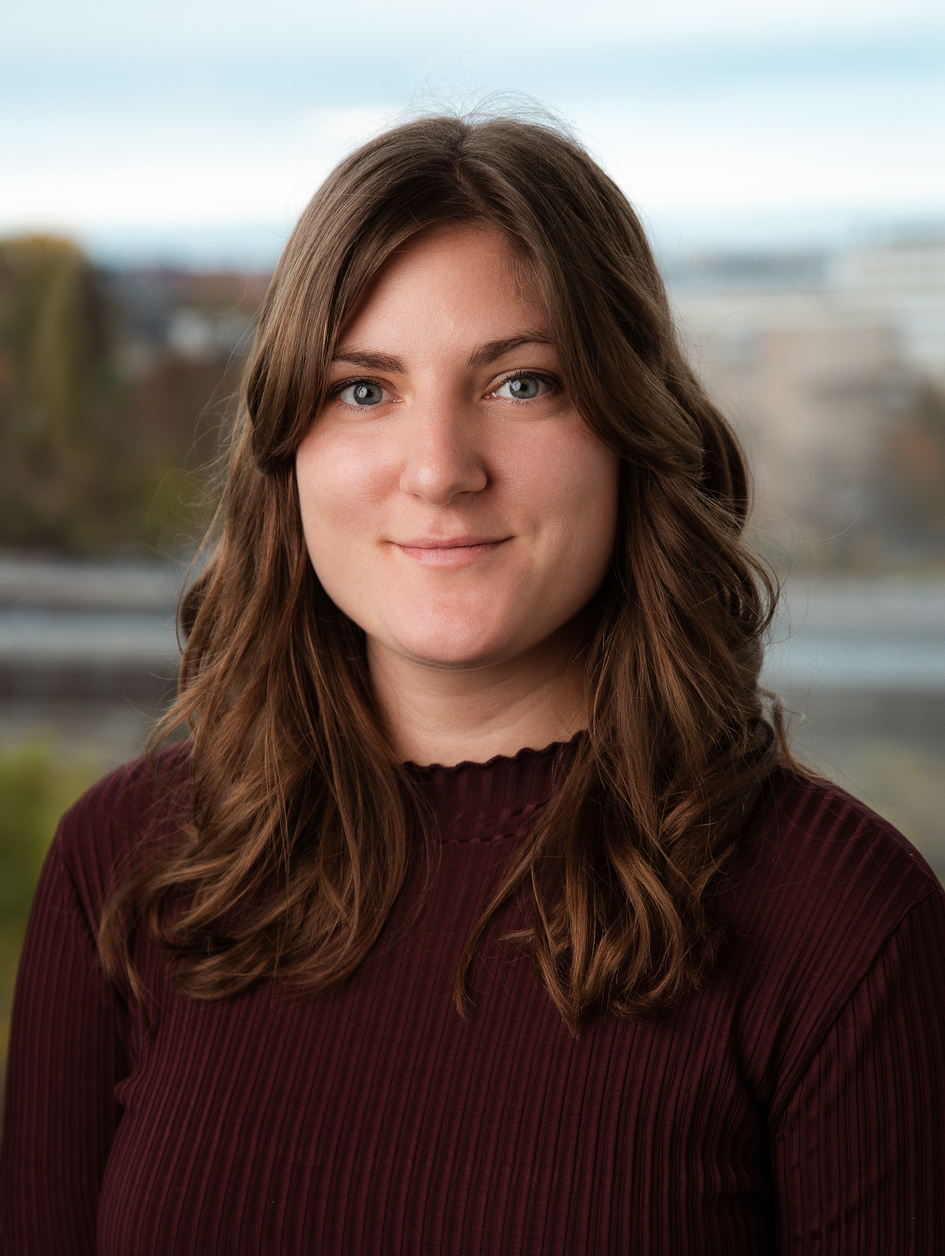
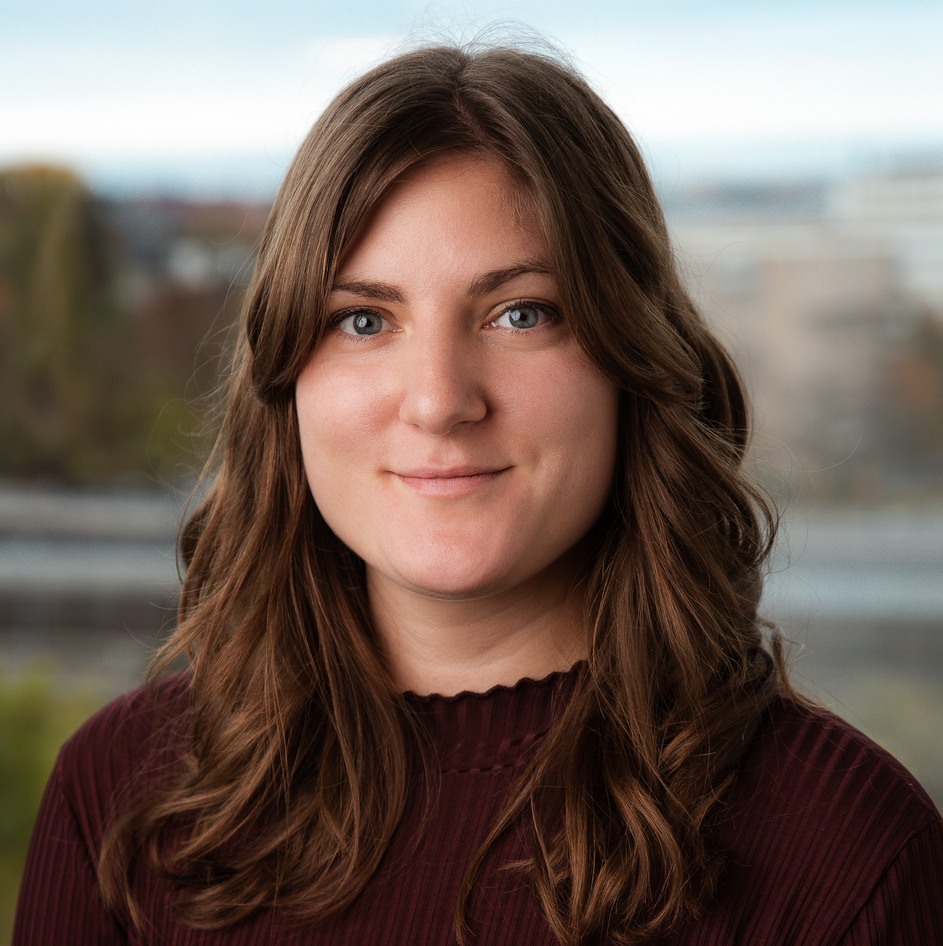
updated links and image format

diff --git a/frontend/src/components/pages/About.js b/frontend/src/components/pages/About.js
@@ -4,8 +4,11 @@ import {
   PageHeading,
   PageSubHeading,
 } from 'components/styles/GlobalStyles';
+import { SlSocialLinkedin } from 'react-icons/sl';
+import { VscGithub } from 'react-icons/vsc';
+import { BsGithub } from 'react-icons/bs';
 
-import styled from 'styled-components';
+import styled from 'styled-components/macro';
 
 import Saralie from '../../utils/img/saralie.jpg';
 
@@ -16,6 +19,7 @@ const presentation = [
     descrition:
       'Lorem ipsum dolor sit amet, consectetur adipiscing elit. Nullam consequat elit vel pharetra mattis. Integer eu risus lacus. Curabitur sit amet nulla eget orci fringilla scelerisque. Suspendisse potenti. Quisque ac efficitur dui. Nam convallis eros in malesuada maximus.',
     linkedIn: 'https://www.linkedin.com/',
+    github: 'https://www.linkedin.com/',
     portfolio: 'https://www.linkedin.com/',
   },
   {
@@ -24,6 +28,7 @@ const presentation = [
     descrition:
       'I am a Frontend Developer with a background as a Design Engineer who love to improve user experience for digital services that the users love while working with a modern tech stack. I have experience working as a team leader and enjoy enabling teams to collaborate and thrive while reaching their full potential.',
     linkedIn: 'https://www.linkedin.com/in/saralie-bognandi-439939b3/',
+    github: 'https://github.com/Scarylie',
     portfolio: 'https://saralie-bognandi.netlify.app/',
   },
   {
@@ -32,11 +37,14 @@ const presentation = [
     descrition:
       'Lorem ipsum dolor sit amet, consectetur adipiscing elit. Nullam consequat elit vel pharetra mattis. Integer eu risus lacus. Curabitur sit amet nulla eget orci fringilla scelerisque. Suspendisse potenti. Quisque ac efficitur dui. Nam convallis eros in malesuada maximus.',
     linkedIn: 'https://www.linkedin.com/',
+    github: 'https://www.linkedin.com/',
     portfolio: 'https://www.linkedin.com/',
   },
 ];
 
 const About = () => {
+  let iconStyles = { fontSize: '1.5em' };
+
   return (
     <Container>
       <Card>
@@ -44,6 +52,18 @@ const About = () => {
         <PageSubHeading>
           This page is made as a final project at Technigo web developer
           bootcamp 2022
+          <div>
+            <p>👇🏼Have a look at our code here👇🏼</p>
+            <a
+              href="https://github.com/Scarylie/final-project-quiz"
+              role="button"
+              aria-pressed="false"
+              aria-label="linkedin"
+              target="_blank"
+              rel="noreferrer">
+              <BsGithub style={iconStyles} />
+            </a>
+          </div>
         </PageSubHeading>
       </Card>
       <CardContainer>
@@ -53,29 +73,43 @@ const About = () => {
               <PageHeading>{person.name}</PageHeading>
               <InfoWrapper>
                 <div>
-                  <Img src={person.profileImg} alt="profile picture" />
-                  <a
-                    href={person.linkedIn}
-                    role="button"
-                    aria-pressed="false"
-                    aria-label="linkedin"
-                    target="_blank"
-                    rel="noreferrer">
-                    LinkedIn
-                  </a>
-                  <a
-                    href={person.portfolio}
-                    role="button"
-                    aria-pressed="false"
-                    aria-label="linkedin"
-                    target="_blank"
-                    rel="noreferrer">
-                    portfolio
-                  </a>
+                  <ImgWrapper>
+                    <a
+                      href={person.portfolio}
+                      role="button"
+                      aria-pressed="false"
+                      aria-label="linkedin"
+                      target="_blank"
+                      rel="noreferrer">
+                      <p>{person.descrition}</p>
+                      <Img src={person.profileImg} alt="profile picture" />
+                    </a>
+                  </ImgWrapper>
+                  <Links>
+                    <div>
+                      <a
+                        href={person.linkedIn}
+                        role="button"
+                        aria-pressed="false"
+                        aria-label="linkedin"
+                        target="_blank"
+                        rel="noreferrer">
+                        <SlSocialLinkedin style={iconStyles} />
+                      </a>
+                    </div>
+                    <div>
+                      <a
+                        href={person.github}
+                        role="button"
+                        aria-pressed="false"
+                        aria-label="linkedin"
+                        target="_blank"
+                        rel="noreferrer">
+                        <VscGithub style={iconStyles} />
+                      </a>
+                    </div>
+                  </Links>
                 </div>
-                <p>{person.descrition}</p>
-
-                <div></div>
               </InfoWrapper>
             </Card>
           );
@@ -109,12 +143,11 @@ const Card = styled.div`
 `;
 const InfoWrapper = styled.div`
   display: flex;
-  justify-content: space-between;
-  gap: 10px;
 `;
 const Img = styled.img`
   border: 2px solid black;
   width: 100px;
+  border-radius: 100vw;
 
   @media (min-width: 600px) {
     width: 150px;
@@ -122,4 +155,14 @@ const Img = styled.img`
   @media (min-width: 1300px) {
     width: 200px;
   }
+`;
+const ImgWrapper = styled.div`
+  margin: 0 auto;
+`;
+
+const Links = styled.div`
+  display: flex;
+  flex-direction: row;
+  gap: 10px;
+  margin-top: 10px;
 `;
